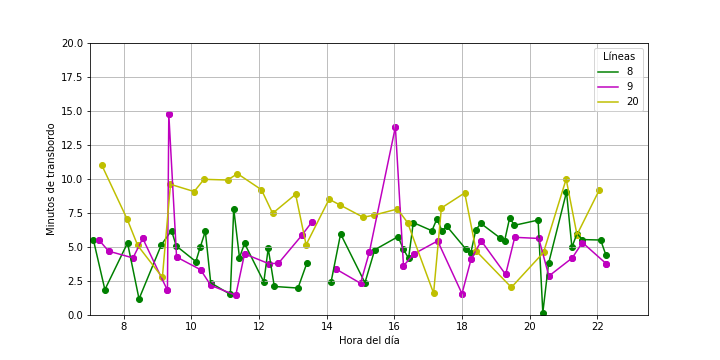
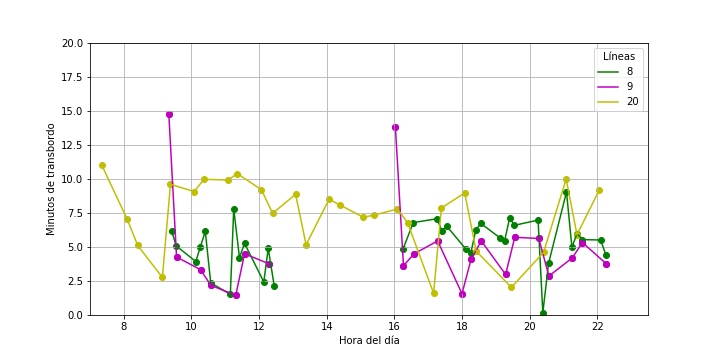
ee
e

diff --git a/COORD_SARDINERO_BARRIOS_crea_pdf_3.py b/COORD_SARDINERO_BARRIOS_crea_pdf_3.py
@@ -245,7 +245,9 @@ Números_de_paradas = namedtuple("Números_de_paradas",
                                  "Cajo2",
                                  "TQuevedo22",
 ##                                 "Albericia18",
-                                 "Pedro_S_Martin_8"))
+                                 "Pedro_S_Martin_8",
+                                 "ies_llamas",
+                                 "san_fernando_vuelta"))
 def genera_informe(
     fecha_inicio = None,
     fecha_fin = None,
@@ -259,7 +261,9 @@ def genera_informe(
                                             Cajo2=78,
                                             TQuevedo22=46,
 ##                                            390,
-                                            Pedro_S_Martin_8=436)):
+                                            Pedro_S_Martin_8=436,
+                                            ies_llamas=194,
+                                            san_fernando_vuelta=44)):
 
     (llegadas_sardinero,
      llegadas_valdecilla,
@@ -315,8 +319,8 @@ def genera_informe(
                "Coche, Viaje "
                "FROM `pasos_parada` "
                "WHERE Instante between '{0}' AND '{1}' "
-               "AND parada IN (11, 44) "
-               "AND linea IN (3,17))".format(fecha_inicio,
+               "AND (parada IN (11, 44) "
+               "AND linea IN (3,17)) or (parada in (171, 194) and linea in (8,9)))".format(fecha_inicio,
                                              fecha_fin),
                "SELECT * FROM pasos_utiles "
                "WHERE NOT EXISTS (SELECT * FROM viajes_directos "
